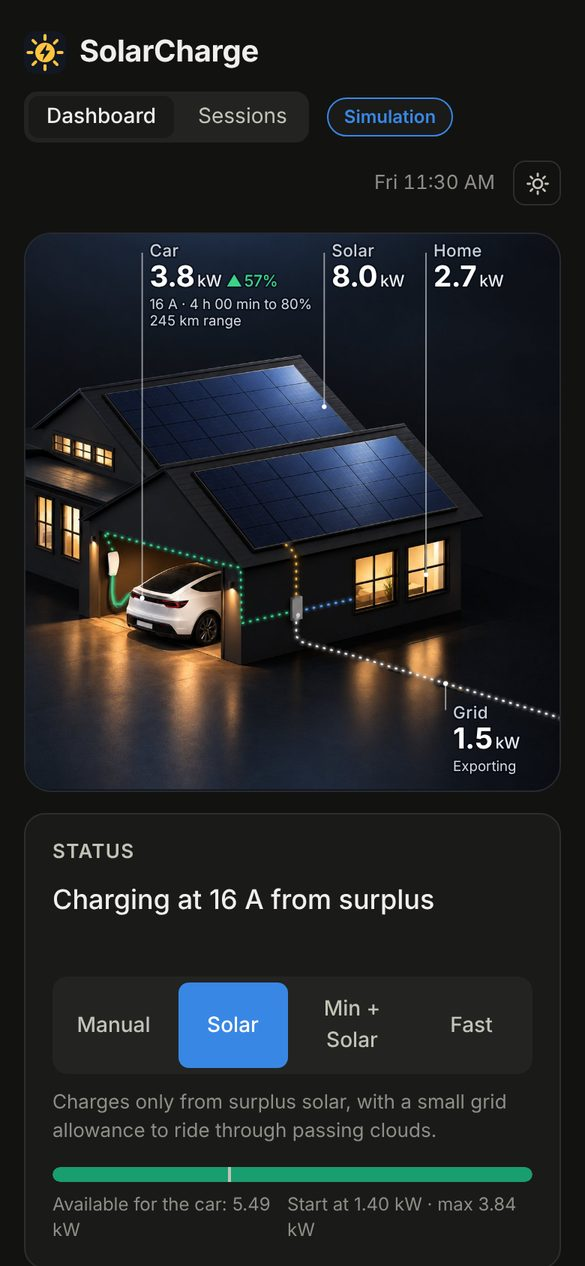
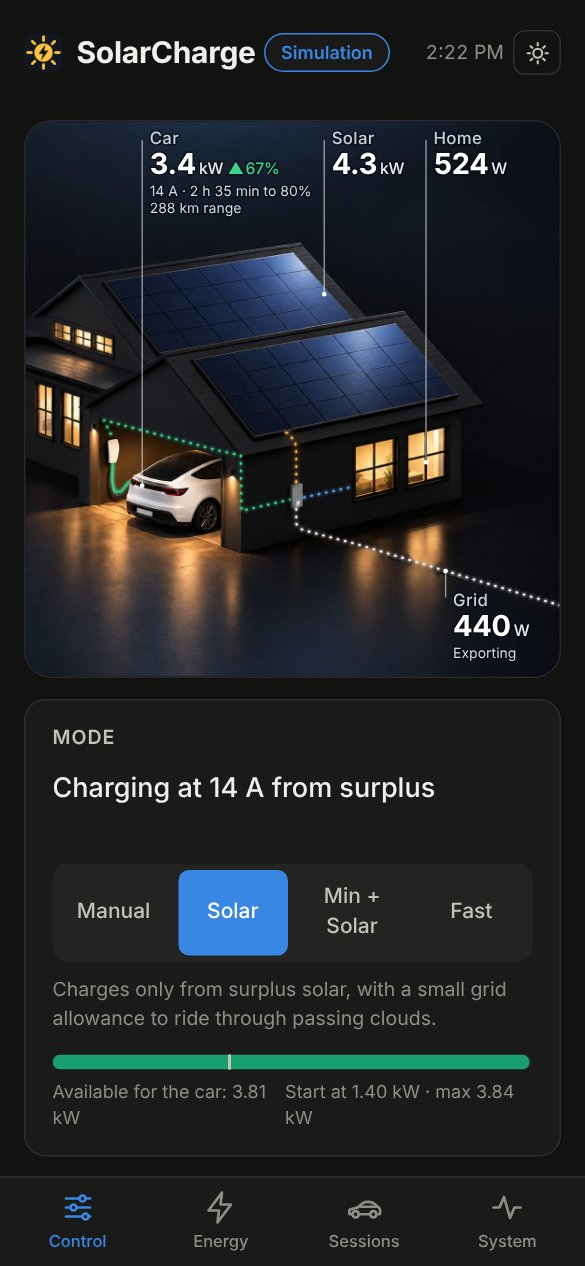
New screenshots (Control, Energy, car tab and phone), and a shorter clock on phones so the header fits
Claude-Session: https://claude.ai/code/session_01KwaJVDMf96DMZHxAM1SLRc

diff --git a/dashboard.html b/dashboard.html
@@ -709,7 +709,9 @@ ul.events.tall { max-height: 640px; }
   function tickClock() {
     if (!clockBase) return;
     var t = clockBase[0] + (Date.now() / 1000 - clockBase[1]);
-    $("clock").textContent = new Date(t * 1000).toLocaleString([], { weekday: "short", hour: "2-digit", minute: "2-digit" });
+    // on a phone, just the time, so the header fits on one line
+    var narrow = window.matchMedia && window.matchMedia("(max-width: 600px)").matches;
+    $("clock").textContent = new Date(t * 1000).toLocaleString([], narrow ? { hour: "numeric", minute: "2-digit" } : { weekday: "short", hour: "2-digit", minute: "2-digit" });
   }
 
   function render(s) {

diff --git a/README.md b/README.md
@@ -21,7 +21,17 @@ SolarCharge reads a Sungrow inverter and smart meter every 10 seconds, then star
 
 For trips, battery health, tyres, temperatures and the car's status, see the companion app **[TeslaTrack](https://github.com/brad-24/teslatrack)**. They run side by side on the same Pi.
 
-<img src="docs/phone.jpg" width="300" alt="Dashboard on a phone">
+The **Energy** tab: a running estimate of your electricity bill, today's totals, power through the day (up to 30 days) and daily solar, export and grid use.
+
+![Energy tab](docs/energy.jpg)
+
+The car's tab: charging and driving for any period, efficiency, cost per km and the saving compared with a fuel car, with every charging session and trip. Driving needs [TeslaTrack](https://github.com/brad-24/teslatrack).
+
+![Car tab](docs/car.jpg)
+
+On a phone, the tabs move to a bar along the bottom.
+
+<img src="docs/phone.jpg" width="300" alt="SolarCharge on a phone">
 
 ## What you need
 
